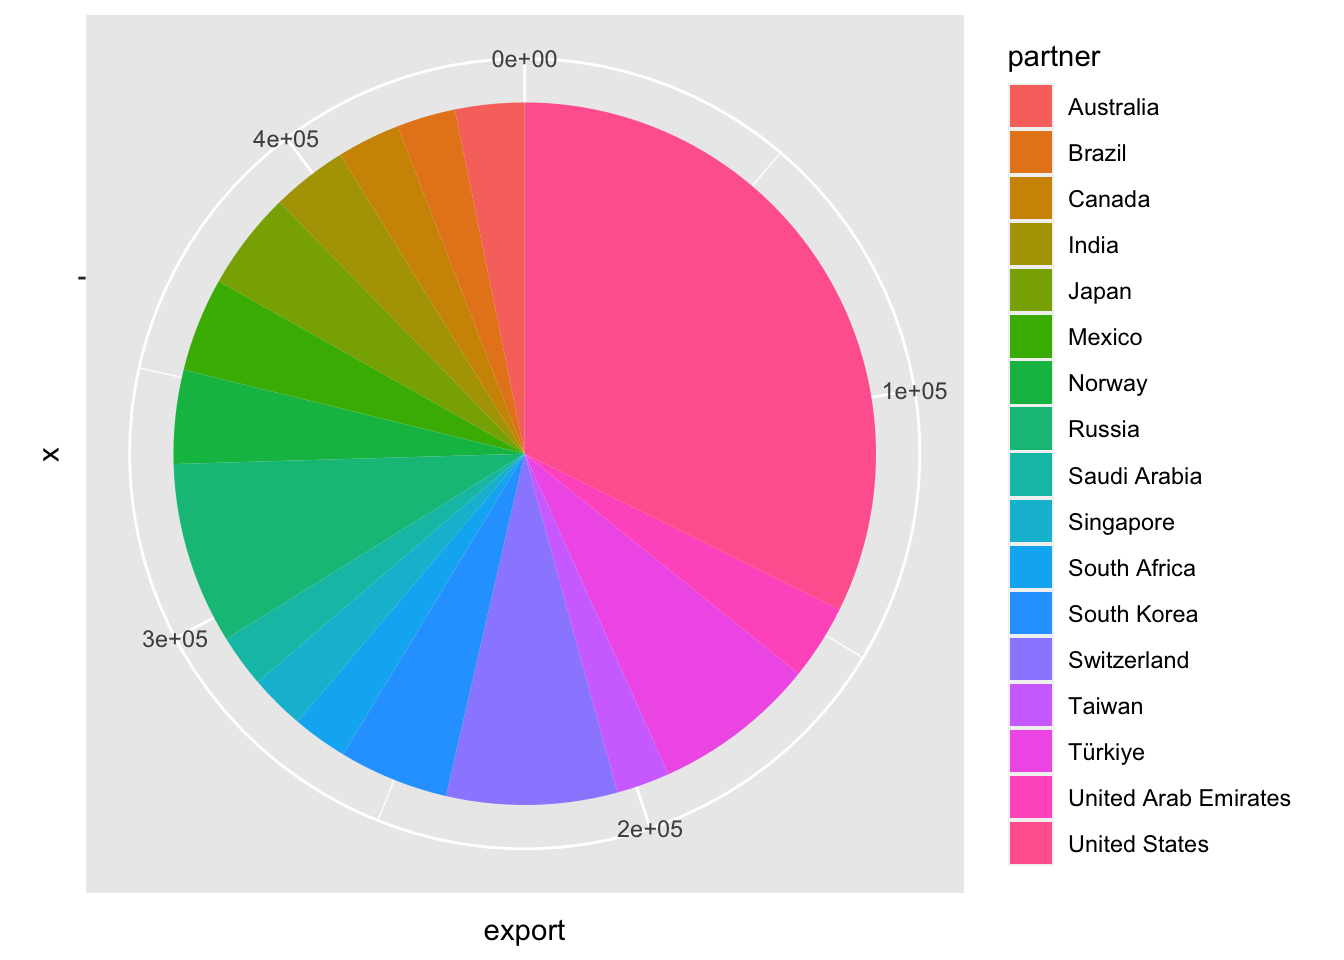
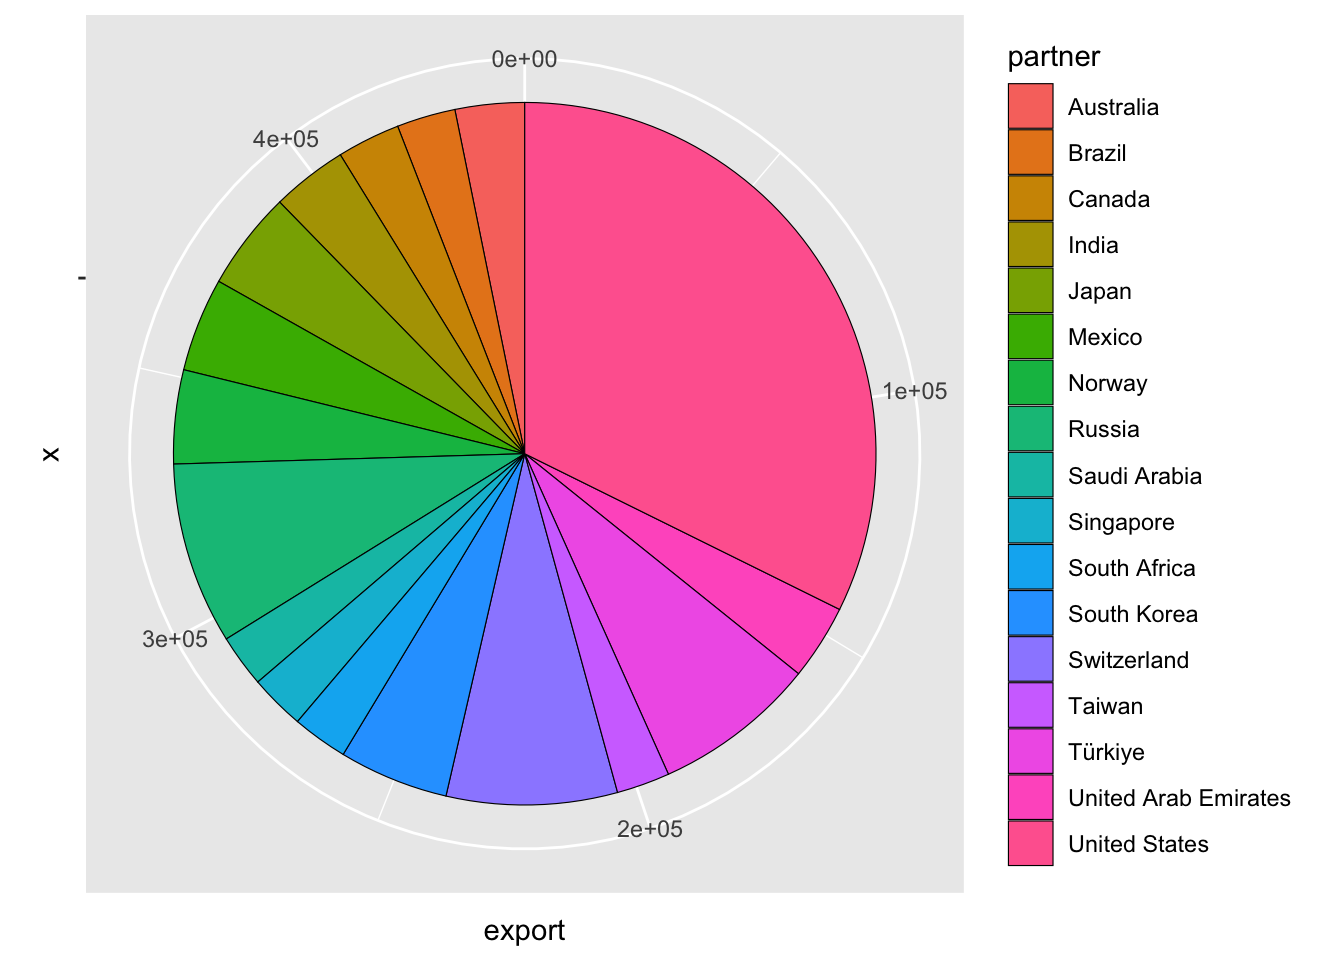
update all

diff --git a/docs/06-AdvGraphics.html b/docs/06-AdvGraphics.html
@@ -1018,10 +1018,9 @@ pre > code.sourceCode > span > a:first-child::before { text-decoration: underlin
 <span id="cb34-2"><a href="#cb34-2" aria-hidden="true" tabindex="-1"></a>  <span class="fu">filter</span>(sitc06 <span class="sc">==</span> <span class="st">'Machinery and transport equipment'</span>,</span>
 <span id="cb34-3"><a href="#cb34-3" aria-hidden="true" tabindex="-1"></a>         export <span class="sc">&gt;</span> <span class="dv">10000</span>,</span>
 <span id="cb34-4"><a href="#cb34-4" aria-hidden="true" tabindex="-1"></a>         time <span class="sc">==</span> <span class="fu">as.Date</span>(<span class="st">'2017-01-01'</span>)) <span class="sc">|&gt;</span> </span>
-<span id="cb34-5"><a href="#cb34-5" aria-hidden="true" tabindex="-1"></a>  <span class="fu">ggplot</span>(<span class="at">mapping =</span> <span class="fu">aes</span>(<span class="at">x =</span> <span class="st">''</span>, <span class="at">y =</span> export, <span class="at">fill =</span> partner), </span>
-<span id="cb34-6"><a href="#cb34-6" aria-hidden="true" tabindex="-1"></a>         <span class="at">color =</span> <span class="st">'black'</span>, <span class="at">linewidth =</span> <span class="fl">0.5</span>) <span class="sc">+</span></span>
-<span id="cb34-7"><a href="#cb34-7" aria-hidden="true" tabindex="-1"></a>    <span class="fu">geom_col</span>() <span class="sc">+</span></span>
-<span id="cb34-8"><a href="#cb34-8" aria-hidden="true" tabindex="-1"></a>    <span class="fu">coord_polar</span>(<span class="at">theta =</span> <span class="st">'y'</span>)</span></code><button title="Copy to Clipboard" class="code-copy-button"><i class="bi"></i></button></pre></div>
+<span id="cb34-5"><a href="#cb34-5" aria-hidden="true" tabindex="-1"></a>  <span class="fu">ggplot</span>(<span class="at">mapping =</span> <span class="fu">aes</span>(<span class="at">x =</span> <span class="st">''</span>, <span class="at">y =</span> export, <span class="at">fill =</span> partner)) <span class="sc">+</span></span>
+<span id="cb34-6"><a href="#cb34-6" aria-hidden="true" tabindex="-1"></a>    <span class="fu">geom_col</span>(<span class="at">color =</span> <span class="st">'black'</span>, <span class="at">linewidth =</span> <span class="fl">0.2</span>) <span class="sc">+</span></span>
+<span id="cb34-7"><a href="#cb34-7" aria-hidden="true" tabindex="-1"></a>    <span class="fu">coord_polar</span>(<span class="at">theta =</span> <span class="st">'y'</span>)</span></code><button title="Copy to Clipboard" class="code-copy-button"><i class="bi"></i></button></pre></div>
 <div class="cell-output-display">
 <div id="fig-539a35d47e664c97a50115a146a7f1bd-27" class="quarto-figure quarto-figure-center anchored" width="672">
 <figure class="quarto-float quarto-float-fig figure">
